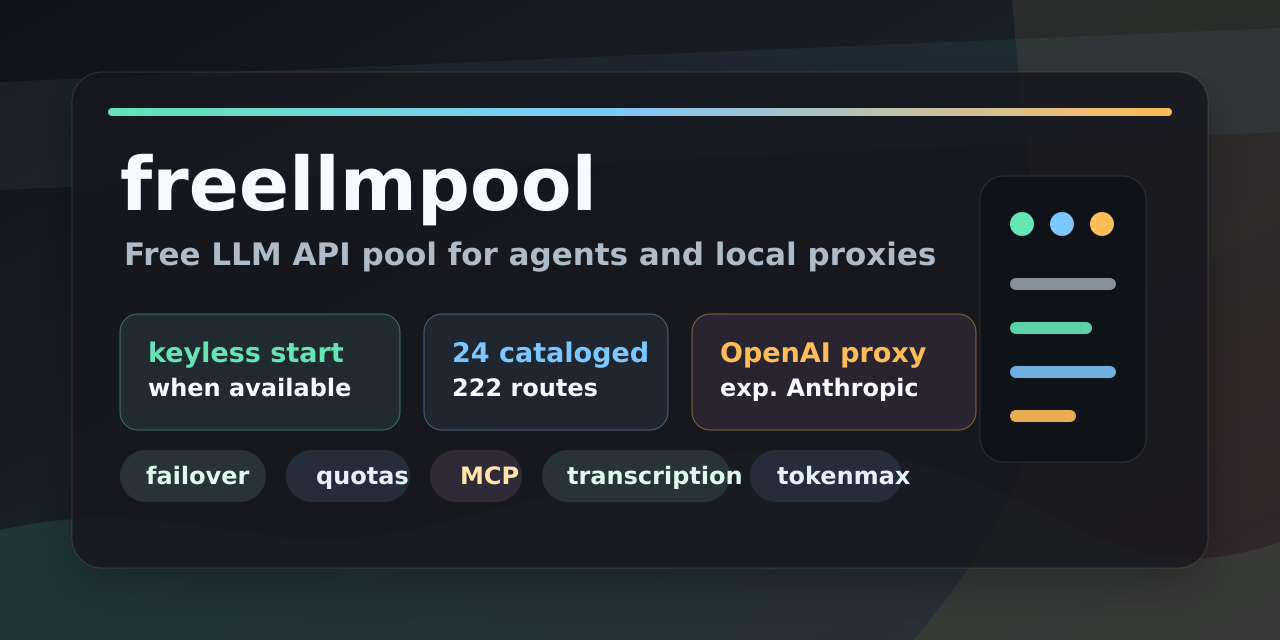
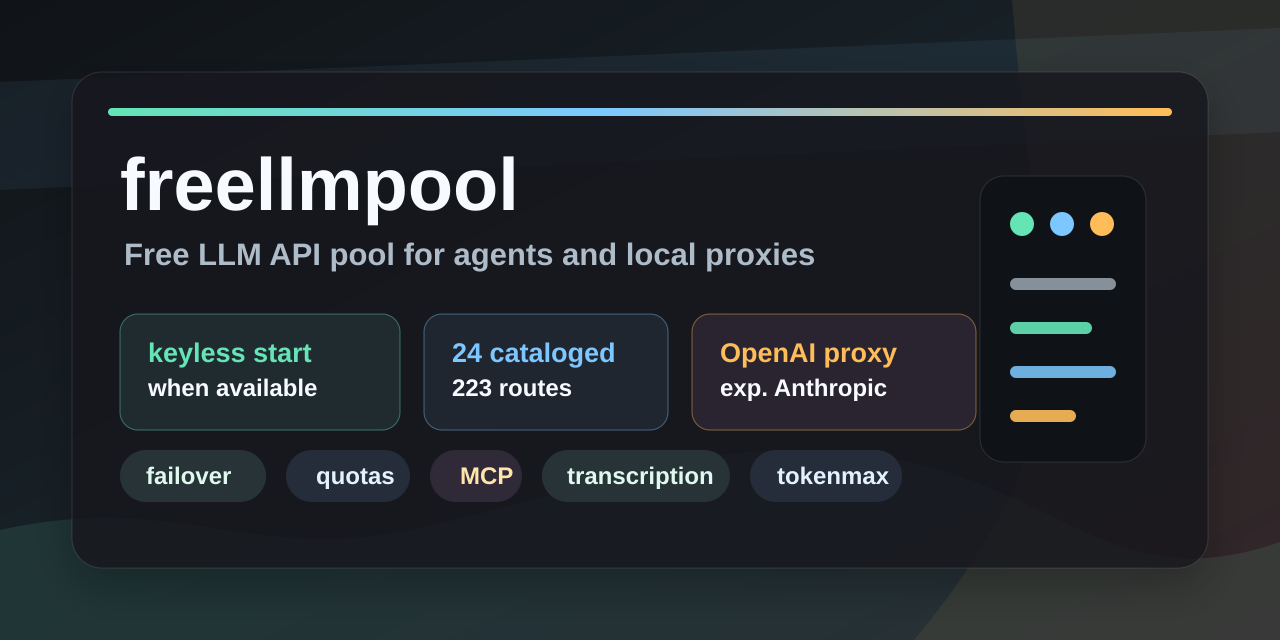
fix: refresh catalog and harden proxy

diff --git a/docs/free-llm-api-providers-list.html b/docs/free-llm-api-providers-list.html
@@ -37,7 +37,7 @@ OpenAI-compatible endpoint with failover, so you get their combined free capacit
 
 <table>
 <tr><th>Provider</th><th>API key?</th><th class=num>Free models*</th><th>Free-tier signal**</th></tr>
-<tr data-provider="pollinations"><td>Pollinations</td><td>No (keyless)</td><td class=num>2</td><td>Anonymous; rate-limited per IP</td></tr>
+<tr data-provider="pollinations"><td>Pollinations</td><td>No (keyless)</td><td class=num>3</td><td>Anonymous; rate-limited per IP</td></tr>
 <tr data-provider="ovh"><td>OVHcloud AI Endpoints</td><td>No (keyless)</td><td class=num>17</td><td>Anonymous tier (chat + embeddings + Whisper)</td></tr>
 <tr data-provider="llm7"><td>LLM7</td><td>Optional</td><td class=num>4</td><td>~60/hour without a token</td></tr>
 <tr data-provider="kilo"><td>Kilo Gateway</td><td>No (keyless)</td><td class=num>8</td><td>Anonymous; ~200 req/hour per IP</td></tr>

diff --git a/docs/index.html b/docs/index.html
@@ -151,7 +151,7 @@ unlock more models and higher limits.</p>
 <h3>Which free LLM providers does it support?</h3>
 <p>24 cataloged providers: Pollinations, OVHcloud, LLM7, Kilo Gateway, OpenCode Zen (disabled by default), Groq, Cerebras, NVIDIA NIM,
 OpenRouter, Google Gemini, GitHub Models, Cloudflare Workers AI, Mistral, Cohere, SambaNova, Z.ai/Zhipu,
-Ollama Cloud, LongCat, Hugging Face (router), Aion Labs, ModelScope API Inference, Morph, Vercel AI Gateway, and SiliconFlow — 222 enabled chat routes, 407 cataloged chat models,
+Ollama Cloud, LongCat, Hugging Face (router), Aion Labs, ModelScope API Inference, Morph, Vercel AI Gateway, and SiliconFlow — 223 enabled chat routes, 407 cataloged chat models,
 plus free embeddings and audio transcription (Whisper).</p>
 
 <h3>How do I know which free providers are usable right now?</h3>

diff --git a/tests/test_proxy.py b/tests/test_proxy.py
@@ -10,7 +10,7 @@ import urllib.error
 import urllib.parse
 import urllib.request
 from concurrent.futures import ThreadPoolExecutor
-from http.server import BaseHTTPRequestHandler
+from http.server import BaseHTTPRequestHandler, ThreadingHTTPServer
 
 import pytest
 from helpers import gemini_body, make_post, make_stream_post, openai_body
@@ -57,6 +57,7 @@ def test_chat_completions_shape(server):
     )
     assert status == 200
     assert body["object"] == "chat.completion"
+    assert isinstance(body["created"], int)
     assert body["choices"][0]["message"]["content"] == "ok"
     assert "x_freellmpool" in body
 
@@ -204,6 +205,63 @@ def test_proxy_server_header_uses_package_version(server):
 
 def test_proxy_listen_backlog_matches_connection_cap():
     assert _BoundedThreadingHTTPServer.request_queue_size == _MAX_CONNECTIONS
+
+
+def test_proxy_waits_briefly_for_a_connection_slot_before_rejecting(monkeypatch):
+    server = object.__new__(_BoundedThreadingHTTPServer)
+    server._slots = threading.BoundedSemaphore(1)
+    assert server._slots.acquire(blocking=False)
+    delegated = []
+    rejected = []
+
+    monkeypatch.setattr(
+        ThreadingHTTPServer,
+        "process_request",
+        lambda self, request, address: delegated.append((request, address)),
+    )
+    server.shutdown_request = lambda request: rejected.append(request)
+
+    request = object()
+    releaser = threading.Timer(0.05, server._slots.release)
+    releaser.start()
+    started = time.monotonic()
+    server.process_request(request, ("127.0.0.1", 12345))
+    elapsed = time.monotonic() - started
+    releaser.join()
+
+    assert elapsed >= 0.04
+    assert delegated == [(request, ("127.0.0.1", 12345))]
+    assert rejected == []
+    server._slots.release()
+
+
+def test_proxy_still_rejects_when_connection_cap_does_not_clear(monkeypatch):
+    class Request:
+        def __init__(self):
+            self.sent = b""
+
+        def sendall(self, data):
+            self.sent += data
+
+    server = object.__new__(_BoundedThreadingHTTPServer)
+    server._slots = threading.BoundedSemaphore(1)
+    assert server._slots.acquire(blocking=False)
+    delegated = []
+    rejected = []
+    monkeypatch.setattr(
+        ThreadingHTTPServer,
+        "process_request",
+        lambda self, request, address: delegated.append((request, address)),
+    )
+    server.shutdown_request = lambda request: rejected.append(request)
+
+    request = Request()
+    server.process_request(request, ("127.0.0.1", 12345))
+
+    assert delegated == []
+    assert rejected == [request]
+    assert request.sent.startswith(b"HTTP/1.1 503 Service Unavailable")
+    server._slots.release()
 
 
 def test_concurrent_chat_requests_share_pool_safely(providers, env, quota):

diff --git a/src/freellmpool/proxy.py b/src/freellmpool/proxy.py
@@ -1392,6 +1392,7 @@ def _to_openai_response(reply) -> dict:
     return {
         "id": f"chatcmpl-freellmpool-{reply.provider_id}",
         "object": "chat.completion",
+        "created": int(time.time()),
         "model": f"{reply.provider_id}/{reply.model}",
         "choices": [{"index": 0, "message": message, "finish_reason": finish}],
         "usage": {
@@ -2017,6 +2018,7 @@ def serve(
 
 
 _MAX_CONNECTIONS = 128  # cap concurrent worker threads/fds against a slowloris-style flood
+_CONNECTION_SLOT_WAIT_SECONDS = 0.25  # absorb normal worker turnover at the hard cap
 
 
 class _BoundedThreadingHTTPServer(ThreadingHTTPServer):
@@ -2038,7 +2040,11 @@ class _BoundedThreadingHTTPServer(ThreadingHTTPServer):
         super().server_close()
 
     def process_request(self, request, client_address):
-        if not self._slots.acquire(blocking=False):
+        # A client can receive its response just before the worker's ``finally``
+        # releases its slot. Give that normal rollover a short grace period so a
+        # pool exactly at the advertised cap does not spuriously reject the next
+        # request, while slow-connection floods still get a bounded, quick 503.
+        if not self._slots.acquire(timeout=_CONNECTION_SLOT_WAIT_SECONDS):
             try:
                 request.sendall(
                     b"HTTP/1.1 503 Service Unavailable\r\n"

diff --git a/tests/test_config.py b/tests/test_config.py
@@ -318,6 +318,14 @@ def test_keyless_providers_always_configured():
     assert "pollinations" in ids  # keyless
     assert "groq" not in ids  # needs a key
 
+
+def test_pollinations_catalog_matches_live_chat_selectors():
+    pollinations = next(provider for provider in load_catalog() if provider.id == "pollinations")
+    models = {model.name: model for model in pollinations.models}
+
+    assert set(models) == {"openai", "openai-fast", "gpt-oss"}
+    assert models["gpt-oss"].enabled is True
+
 def test_env_example_documents_keyless_providers():
     """Verify .env.example lists all default-enabled keyless/key-optional providers."""
     catalog = load_catalog()

diff --git a/tests/test_supply_chain.py b/tests/test_supply_chain.py
@@ -172,7 +172,7 @@ def test_pull_requests_have_source_dependency_workflow_and_container_gates():
     assert "github/codeql-action/analyze@" in codeql
 
     assert "pip-audit==2.10.1" in security
-    assert "zizmor==1.28.0" in security
+    assert "zizmor==1.29.0" in security
     assert "--no-ignores" in security
     assert "--no-config" in security
     assert "bandit\n          --recursive src" in security
@@ -261,7 +261,7 @@ def test_security_tooling_extra_is_complete_and_pinned():
     assert extras["security"] == [
         "bandit==1.9.4",
         "pip-audit==2.10.1",
-        "zizmor==1.28.0",
+        "zizmor==1.29.0",
     ]
 
 

diff --git a/tests/test_github_discovery.py b/tests/test_github_discovery.py
@@ -64,7 +64,7 @@ def test_github_discovery_description_stays_within_about_limit():
     assert len(description) <= 120
     assert "keyless start when available" in description
     assert "24 LLM providers" in description
-    assert "222 routes" in description
+    assert "223 routes" in description
     assert "407 cataloged chat models" in description
 
 
@@ -93,7 +93,7 @@ def test_social_preview_svg_matches_github_preview_requirements():
     for text in (
         "keyless start",
         "24 cataloged",
-        "222 routes",
+        "223 routes",
         "OpenAI proxy",
         "exp. Anthropic",
         "failover",

diff --git a/tests/test_faq.py b/tests/test_faq.py
@@ -68,9 +68,9 @@ def test_demo_assets_are_well_formed_and_current():
     assert "TOKENMAXXING" in demo
     assert "--animation-duration: 8500ms" in demo
     assert f"freellmpool-{__version__}" in demo
-    assert "24 cataloged providers, 222 enabled routes" in demo
+    assert "24 cataloged providers, 223 enabled routes" in demo
     assert "keyless start when available" in demo
-    assert "222" in results
+    assert "223" in results
     assert "407 cataloged" in results
     assert "cataloged providers" in results
     assert "$0" in results

diff --git a/tests/test_spanish_readme.py b/tests/test_spanish_readme.py
@@ -27,7 +27,7 @@ def test_spanish_readme_tracks_current_launch_surface():
     assert "Puede quedar por detrás" in spanish
     assert "![demostración de freellmpool tokenmax en terminal](assets/demo.svg)" in spanish
     assert "24 proveedores" in spanish
-    assert "222 rutas de chat" in spanish
+    assert "223 rutas de chat" in spanish
     assert "407 modelos de chat" in spanish
     assert "Última versión: 0.11.4" in spanish
     assert "main contiene cambios aún no publicados" in spanish

diff --git a/CHANGELOG.md b/CHANGELOG.md
@@ -38,6 +38,10 @@ All notable changes to this project are documented here. The format is based on
 - Weekly Dependabot coverage for Python, GitHub Actions, and container images.
 
 ### Changed
+- Refreshed Pollinations against its authoritative public listing and repeat
+  anonymous completion probes: added the working `gpt-oss` selector, removed
+  the retired `mistral` row, and synchronized the 223-route metadata and assets.
+- Updated the pinned Zizmor workflow scanner and security extra to 1.29.0.
 - Corrected the OpenCode integrations to use the proxy's actual port 8080
   default and refreshed the dated competitor comparison from pinned sources.
 - Refreshed the provider catalog to 239 enabled chat routes and 397 cataloged
@@ -53,6 +57,11 @@ All notable changes to this project are documented here. The format is based on
   degraded, or repeat-timeout Ollama, GitHub, and NVIDIA routes.
 
 ### Fixed
+- Non-streaming OpenAI-compatible chat responses now include the required Unix
+  `created` timestamp used by strict clients such as the Vercel AI SDK.
+- The bounded proxy server now allows a brief worker-slot rollover at its
+  128-connection cap, preventing spurious 503s and broken pipes under the
+  built-in 2,400-request soak profile without relaxing the hard cap.
 - The OpenCode plugin now registers its provider and named routing aliases
   through the runtime config hook without rewriting user configuration, while
   preserving existing provider options and authentication.

diff --git a/docs/promotion/outreach-notes.md b/docs/promotion/outreach-notes.md
@@ -21,7 +21,7 @@ keys for more models and capacity.
 Repo: https://github.com/0xzr/freellmpool
 Docs: https://0xzr.github.io/freellmpool/
 
-Current catalog: 24 cataloged providers, 222 enabled chat routes, 407 cataloged chat
+Current catalog: 24 cataloged providers, 223 enabled chat routes, 407 cataloged chat
 models.
 
 The honest caveat: it is not a privacy layer. Prompts go to the selected
@@ -50,7 +50,7 @@ disponible, y también permite sumar
 keys gratuitas propias de Groq, Cerebras, Gemini, Mistral, OpenRouter, NVIDIA,
 etc.
 
-Catálogo actual: 24 proveedores, 222 rutas chat habilitadas, 407 modelos chat
+Catálogo actual: 24 proveedores, 223 rutas chat habilitadas, 407 modelos chat
 catalogados.
 
 Nota importante: no es una capa de privacidad; los prompts van al proveedor
@@ -65,7 +65,7 @@ freellmpool is a local MIT-licensed gateway for pooling free LLM provider tiers.
 It exposes a CLI, Python library, OpenAI-compatible local proxy, experimental
 Anthropic-compatible path, and MCP server. It supports keyless start when
 default keyless routes are available, optional user-owned free-tier keys, and
-currently catalogs 24 cataloged providers with 222 enabled chat routes. Useful for
+currently catalogs 24 cataloged providers with 223 enabled chat routes. Useful for
 coding-agent side tasks, docs, triage, and scripts where free-tier models are
 good enough.
 

diff --git a/docs/promotion/social-short-posts.md b/docs/promotion/social-short-posts.md
@@ -5,7 +5,7 @@
 I built freellmpool: a local, open-source pool for free LLM API tiers.
 
 - 24 cataloged providers
-- 222 enabled chat routes
+- 223 enabled chat routes
 - OpenAI-compatible local proxy
 - MCP server
 - keyless start when default keyless routes are available
@@ -35,7 +35,7 @@ coding agents, docs, triage, and side tasks.
 4/ Current catalog:
 
 - 24 cataloged providers
-- 222 enabled chat routes
+- 223 enabled chat routes
 - 407 cataloged chat models
 - keyless start when default keyless routes are available
 
@@ -105,7 +105,7 @@ It supports:
 - keyless start when default keyless routes are available, with optional
   free-tier provider keys for more capacity
 
-Current catalog: 24 cataloged providers, 222 enabled chat routes, and 407 cataloged chat
+Current catalog: 24 cataloged providers, 223 enabled chat routes, and 407 cataloged chat
 models.
 
 It is not a privacy layer. Prompts go to the selected upstream provider; the FAQ
@@ -126,6 +126,6 @@ tiers.
 CLI, Python library, local OpenAI-compatible proxy, experimental
 Anthropic-compatible path, and MCP server.
 
-24 cataloged providers, 222 enabled chat routes, keyless start when routes are available.
+24 cataloged providers, 223 enabled chat routes, keyless start when routes are available.
 
 https://github.com/0xzr/freellmpool
